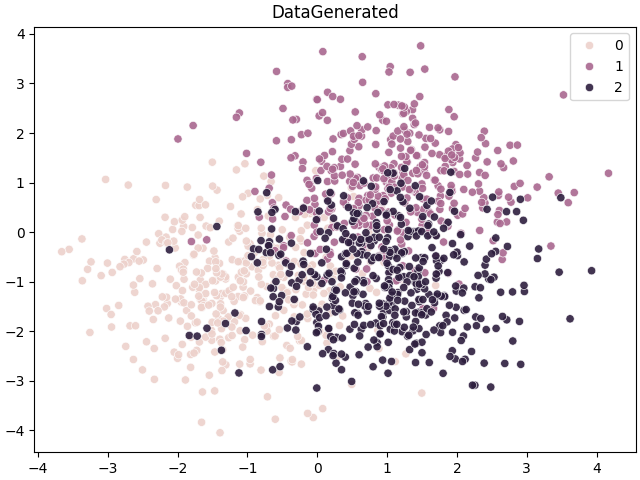
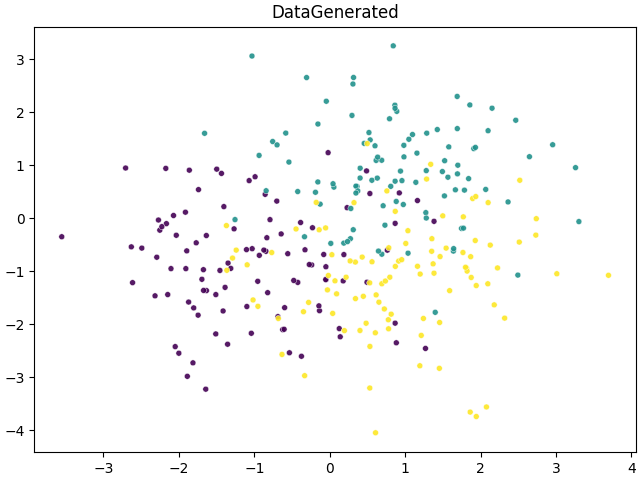
Actualización de segunda parte

diff --git a/Parte 2/main.py b/Parte 2/main.py
@@ -14,32 +14,31 @@ plt.rcParams['figure.constrained_layout.use'] = True # Para ajustar figuras
 # Paramnetros de distribuciones
 means = [np.array([-1, -1]), np.array([1, 1]), np.array([1, -1])]
 covs = [np.array([[1, 0], [0, 1]]), np.array([[1, 0], [0, 1]]), np.array([[1, 0], [0, 1]])]
-sizes = [400, 400, 450] # tamanios de cada muestra
+sizes = [100, 100, 100] # tamanios de cada muestra
 
 X, y = generate_data(means, covs, N=sizes)  # Generar datos
 
 # Mostrar la data
 show_data(X, y, title='DataGenerated')
 plt.savefig('./figures/data.png')
-# plt.show()
 
 
 # Pruebas visuales de los clasificadores
 
 # Parametros de knn
-kneighbors = 3
+kneighbors = 5
 knn_weights = 'distance'
 
 # Generar figura y ejes
-fig, axs = plt.subplots(3, 2)
+fig, axes = plt.subplots(3, 2)
 
-show_data(X, y, title='DataGenerated', ax=axs[0, 0])  # Mostrar datos generados
+show_data(X, y, title='DataGenerated', ax=axes[0, 0])  # Mostrar datos generados
 
 # Para mostrar clasificación bayes optimo
 model = GaussianBayesClassifier(means, covs)
 model.fit(X, y)
 y_pred = model.predict(X)
-show_data(X, y_pred, title=model.__class__.__name__, ax=axs[0, 1], model=model)
+show_data(X, y_pred, title=model.__class__.__name__, ax=axes[0, 1], model=model)
 
 # Para mostrar clasificación con los otros clasificadores
 models = [
@@ -52,11 +51,12 @@ for model in models:
     model.fit(X, y)
     y_pred = model.predict(X)
     show_data(X, y_pred, title=model.__class__.__name__,
-        ax=axs[1+models.index(model)//2, models.index(model)%2], model=model)
+        ax=axes[1+models.index(model)//2, models.index(model)%2], model=model)
 
 
 fig.suptitle('Clasificación de datos con distribuciones normales')
-#plt.show()
+current_size = fig.get_size_inches()
+fig.set_size_inches(current_size[0]*1.5, current_size[1]*1.5)
 plt.savefig('./figures/classifiers.png')
 
 
@@ -74,5 +74,52 @@ for i, knn in enumerate(knns_clasifiers):
     show_data(X, y_pred, title=f'K={1+i}', ax=axes[i//5, i%5], model=model)
 
 fig.suptitle('KNN con diferentes k')
-#plt.show()
+current_size = fig.get_size_inches()
+fig.set_size_inches(current_size[0]*1.5, current_size[1]*1.5)
 plt.savefig('./figures/knns.png')
+
+
+### Aqui empezaremos con los casos de la tarea
+
+# inicialmente dos clases con priors iguales (0.5) y varianzas iguales
+means = [
+    np.array([-1,0]),
+    np.array([0,1])
+]
+
+covs = [
+    np.array([
+        [1,0],
+        [0,1]
+    ]),
+    np.array([
+        [1,0],
+        [0,1]
+    ])
+]
+
+
+ns = [50, 100, 200, 500]
+models = [
+    GaussianNB(), LinearDiscriminantAnalysis(),
+    QuadraticDiscriminantAnalysis(),
+    KNeighborsClassifier(n_neighbors=kneighbors, weights=knn_weights),
+    GaussianBayesClassifier(means, covs)
+]
+
+titles = ['GNB','LDA','QDA','KNN','GB']
+
+fig, axes = plt.subplots(len(ns), len(models))
+
+for i, n in enumerate(ns):
+    X, y = generate_data(means, covs, N=n)
+    for j, model in enumerate(models):
+        model.fit(X, y)
+        y_pred = model.predict(X)
+        show_data(X, y_pred, title=titles[j]+f' N={n}',\
+            ax=axes[i, j], model=model)
+
+fig.suptitle('Comparación de clasificadores con diferentes tamaños de muestras')
+current_size = fig.get_size_inches()
+fig.set_size_inches(current_size[0]*1.5, current_size[1]*1.5)
+plt.savefig('./figures/same_priors_and_vars.png')

diff --git a/Parte 2/utils/visualitation.py b/Parte 2/utils/visualitation.py
@@ -3,9 +3,8 @@ import matplotlib.pyplot as plt
 import numpy as np
 from sklearn.inspection import DecisionBoundaryDisplay
 
-
-def show_data(X:np.ndarray, y:np.ndarray, ax=None, model=None, **ax_kwargs)\
-    -> None:
+def show_data(X:np.ndarray, y:np.ndarray, size_points=0.5, ax=None, model=None,\
+    **ax_kwargs) -> None:
     """ Muestra los datos en un grafico de dispersión.
 
     Parámetros:
@@ -33,7 +32,7 @@ def show_data(X:np.ndarray, y:np.ndarray, ax=None, model=None, **ax_kwargs)\
         response_method="predict", alpha=0.2)
 
     # Mostrar datos
-    sns.scatterplot(x=X[:, 0], y=X[:, 1], hue=y, alpha=0.9, ax=ax)
-
+    sns.scatterplot(x=X[:, 0], y=X[:, 1], hue=y, alpha=0.9, ax=ax,\
+        palette="viridis", size=size_points, legend=False)
     ax.set(**ax_kwargs) # configuraciones adicionales
     return ax
